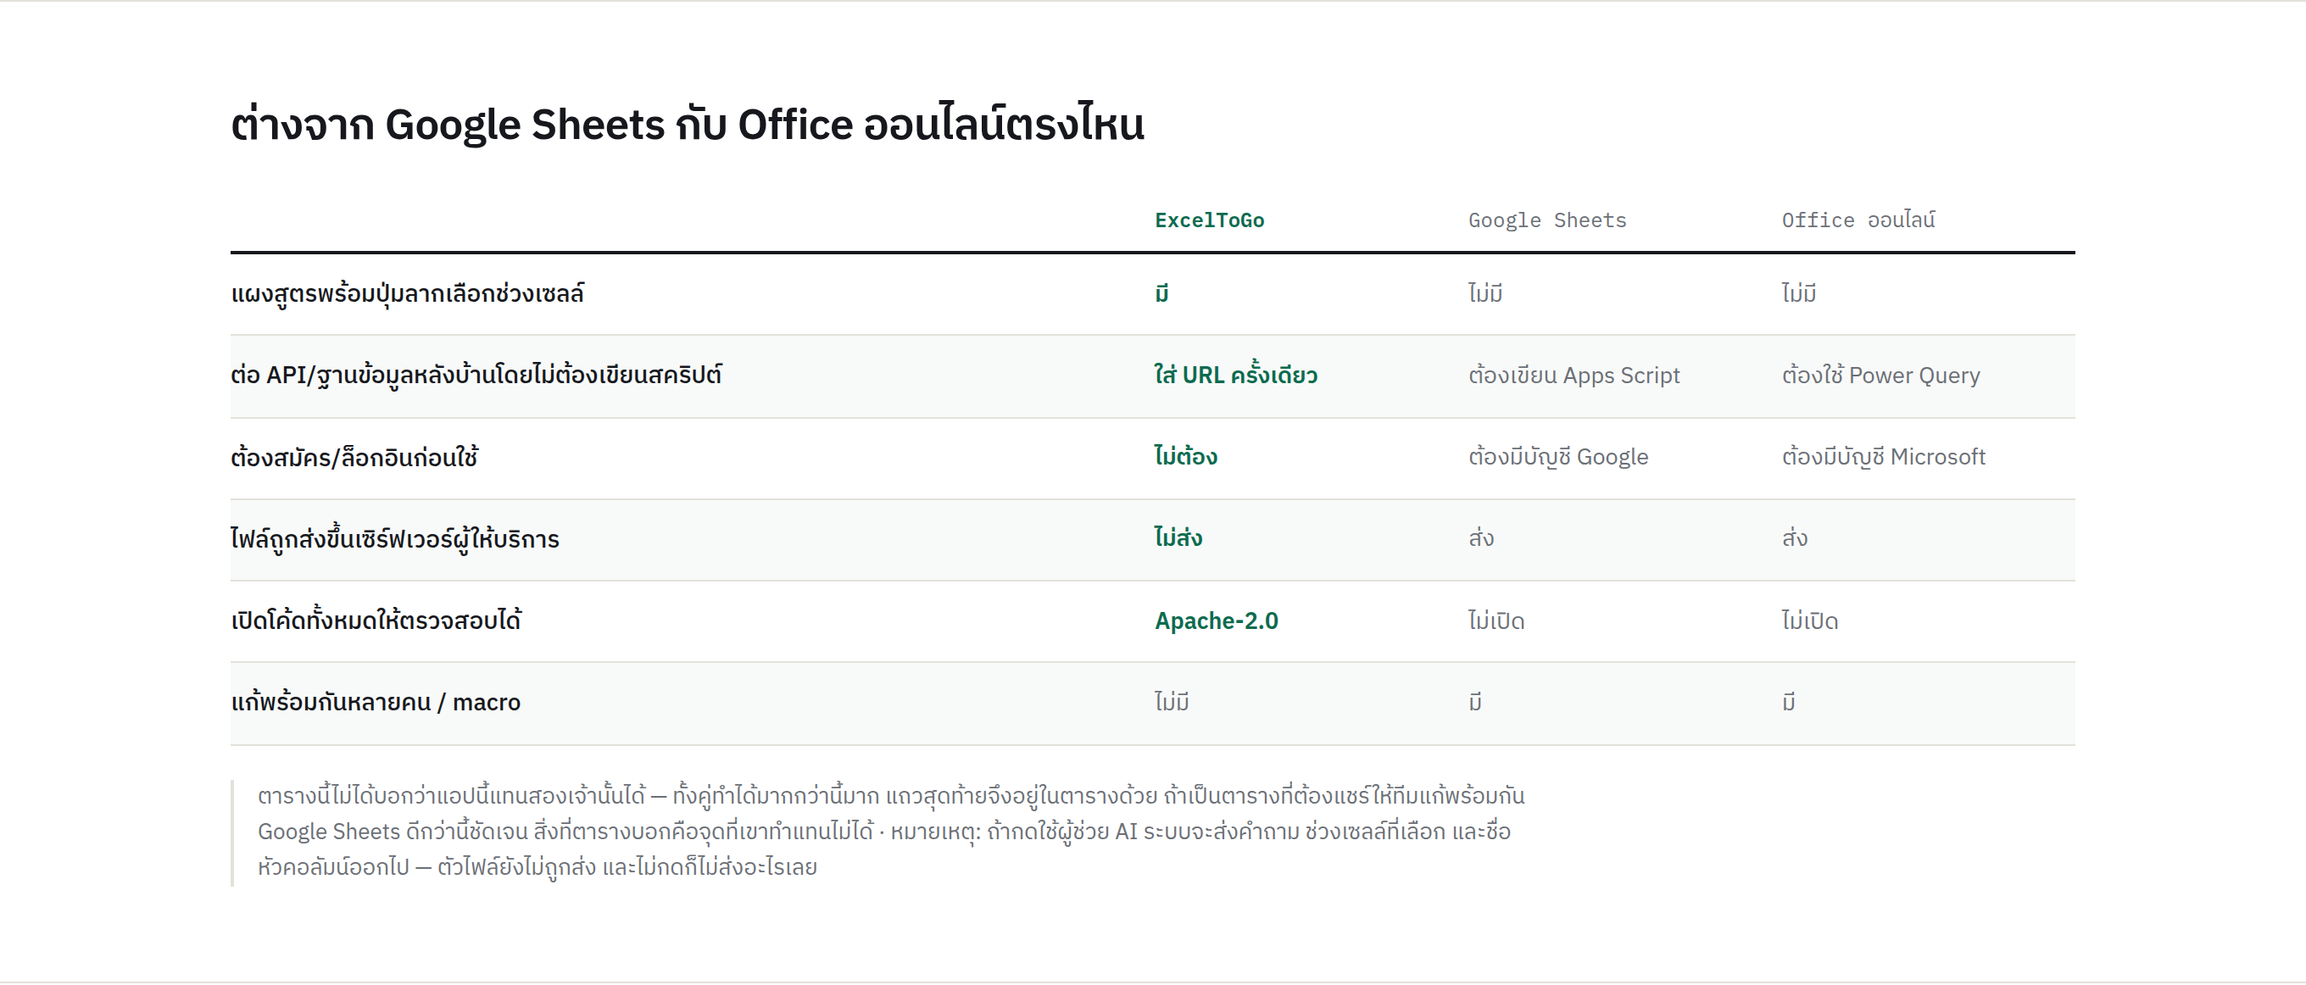
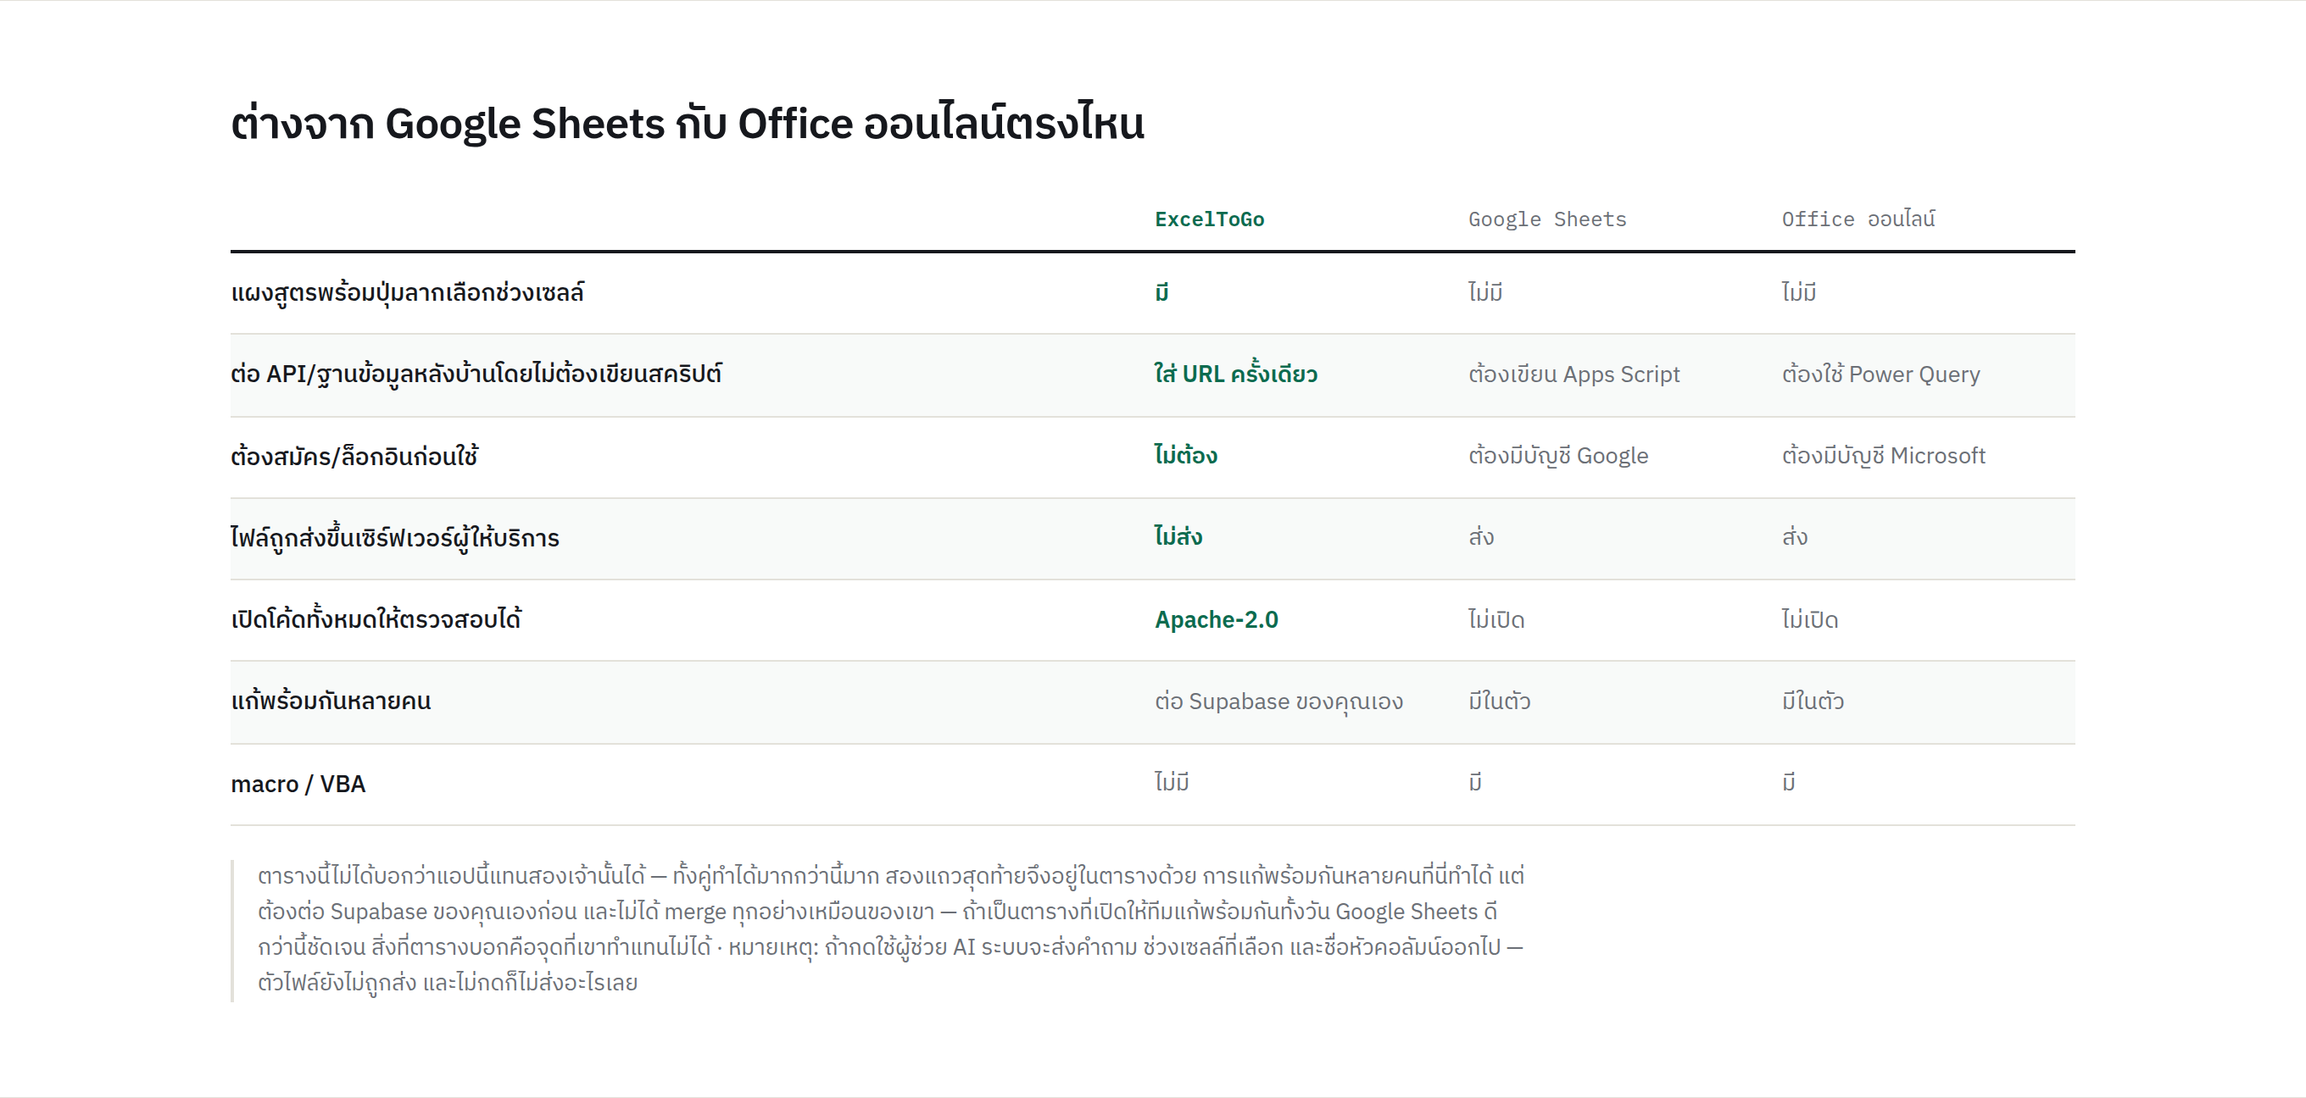
landing: say that editing together shipped, and where it stops
The front page still claimed multi-person editing was absent and not planned,
and the comparison table still scored it "No" against Google Sheets. Both were
true last week and are not now.

- A sixth feature card, and the first one on the page with no screenshot: the
  live panel only exists once a real Supabase project is attached, and this page
  promises every image on it came from the running app. A mocked-up picture would
  be a claim rather than evidence, so the card says so and lays out as one column
  instead of leaving half a row empty.
- The comparison table splits co-editing from macros, because they no longer have
  the same answer: "on your own Supabase" against "built in", still not a win.
  The note under it says plainly that for a sheet a team edits all day, Google
  Sheets is the better tool.
- The limits section keeps its promise of stopping honestly: co-editing is here,
  it is not a CRDT, it does not merge row inserts, and macros are still absent.
- Both READMEs' opening pitch mentions it, and the comparison screenshot was
  retaken from a production build rather than left a row short.

Gates: lint, README, 1058 tests, build, 30 a11y checks, 8 e2e flows.

Claude-Session: https://claude.ai/code/session_01FHKiqBv3L47spmi6JGMLcC

diff --git a/src/i18n/th.ts b/src/i18n/th.ts
@@ -144,10 +144,11 @@ export const th: Messages = {
         { label: "ต้องสมัคร/ล็อกอินก่อนใช้", values: ["ไม่ต้อง", "ต้องมีบัญชี Google", "ต้องมีบัญชี Microsoft"], good: true },
         { label: "ไฟล์ถูกส่งขึ้นเซิร์ฟเวอร์ผู้ให้บริการ", values: ["ไม่ส่ง", "ส่ง", "ส่ง"], good: true },
         { label: "เปิดโค้ดทั้งหมดให้ตรวจสอบได้", values: ["Apache-2.0", "ไม่เปิด", "ไม่เปิด"], good: true },
-        { label: "แก้พร้อมกันหลายคน / macro", values: ["ไม่มี", "มี", "มี"], good: false },
+        { label: "แก้พร้อมกันหลายคน", values: ["ต่อ Supabase ของคุณเอง", "มีในตัว", "มีในตัว"], good: false },
+        { label: "macro / VBA", values: ["ไม่มี", "มี", "มี"], good: false },
       ],
       disclaimer:
-        "ตารางนี้ไม่ได้บอกว่าแอปนี้แทนสองเจ้านั้นได้ — ทั้งคู่ทำได้มากกว่านี้มาก แถวสุดท้ายจึงอยู่ในตารางด้วย ถ้าเป็นตารางที่ต้องแชร์ให้ทีมแก้พร้อมกัน Google Sheets ดีกว่านี้ชัดเจน สิ่งที่ตารางบอกคือจุดที่เขาทำแทนไม่ได้ · หมายเหตุ: ถ้ากดใช้ผู้ช่วย AI ระบบจะส่งคำถาม ช่วงเซลล์ที่เลือก และชื่อหัวคอลัมน์ออกไป — ตัวไฟล์ยังไม่ถูกส่ง และไม่กดก็ไม่ส่งอะไรเลย",
+        "ตารางนี้ไม่ได้บอกว่าแอปนี้แทนสองเจ้านั้นได้ — ทั้งคู่ทำได้มากกว่านี้มาก สองแถวสุดท้ายจึงอยู่ในตารางด้วย การแก้พร้อมกันหลายคนที่นี่ทำได้ แต่ต้องต่อ Supabase ของคุณเองก่อน และไม่ได้ merge ทุกอย่างเหมือนของเขา — ถ้าเป็นตารางที่เปิดให้ทีมแก้พร้อมกันทั้งวัน Google Sheets ดีกว่านี้ชัดเจน สิ่งที่ตารางบอกคือจุดที่เขาทำแทนไม่ได้ · หมายเหตุ: ถ้ากดใช้ผู้ช่วย AI ระบบจะส่งคำถาม ช่วงเซลล์ที่เลือก และชื่อหัวคอลัมน์ออกไป — ตัวไฟล์ยังไม่ถูกส่ง และไม่กดก็ไม่ส่งอะไรเลย",
     },
     problemTitle: "เรื่องที่น่าจะเคยเจอ",
     problemLead:
@@ -212,6 +213,16 @@ export const th: Messages = {
         alt: "กราฟที่วาดจากช่วงข้อมูลในตาราง",
         points: ["กราฟผูกกับเซลล์ แก้ตัวเลขแล้วขยับตาม", "PDF อ่านภาษาไทยออก ไม่ใช่อักษรมั่ว", "จัดรูปแบบตามเงื่อนไขไป-กลับกับ Excel ได้"],
       },
+      {
+        title: "แก้พร้อมกันหลายคน บน backend ของคุณเอง",
+        body: "บันทึกงานขึ้น Supabase ของคุณแล้วกดเข้าห้อง ทุกคนที่เปิดไฟล์เดียวกันจะเห็นกันพิมพ์สด ๆ พร้อมจุดสีบอกว่าใครอยู่ช่องไหน — ไม่มีเซิร์ฟเวอร์กลางของแอปนี้อยู่ตรงกลาง เพราะการมีเซิร์ฟเวอร์กลางจะกลับด้านสิ่งที่ทั้งแอปยืนอยู่บนมัน · ไม่มีภาพในหัวข้อนี้ เพราะพาเนลจะโผล่ก็ต่อเมื่อต่อ Supabase จริงแล้ว และหน้านี้สัญญาไว้ว่าทุกภาพถ่ายจากแอปจริง",
+        points: [
+          "ช่องที่กำลังพิมพ์อยู่ไม่ถูกทับกลางคัน",
+          "undo ของเราไม่ลบงานของเขา",
+          "ไม่ใช่ CRDT — พิมพ์ช่องเดียวกันพร้อมกันเหลือค่าเดียว และฝั่งที่แพ้ถูกบอก",
+          "แทรก/ลบแถวไม่ merge — บันทึกแล้วให้อีกฝั่งโหลดใหม่",
+        ],
+      },
     ],
     statsTitle: "เบื้องหลัง",
     // The test count sits directly above this on the page, so the "N passed, yet 43% unusable"
@@ -237,11 +248,11 @@ export const th: Messages = {
     limits: [
       {
         title: "เครื่องมือในเบราว์เซอร์ ไม่ใช่บริการที่โฮสต์ให้",
-        body: "ไม่มีบัญชีผู้ใช้ ไม่มีเซิร์ฟเวอร์เก็บงานของคุณ — ข้อมูลอยู่ในเครื่องคุณเท่านั้น ซึ่งเป็นเหตุผลเดียวกับที่เปิดใช้ได้ทันทีโดยไม่ต้องสมัคร ถ้าต้องการบันทึกข้ามเครื่อง ต่อ Supabase ของคุณเองได้",
+        body: "ไม่มีบัญชีผู้ใช้ ไม่มีเซิร์ฟเวอร์เก็บงานของคุณ — ข้อมูลอยู่ในเครื่องคุณเท่านั้น ซึ่งเป็นเหตุผลเดียวกับที่เปิดใช้ได้ทันทีโดยไม่ต้องสมัคร ถ้าต้องการบันทึกข้ามเครื่องหรือแก้พร้อมกันหลายคน ต่อ Supabase ของคุณเองได้ — ของคุณ ไม่ใช่ของใคร",
       },
       {
         title: "ทำงานประจำวันให้จบ ไม่ได้ทำทุกอย่างที่ Excel ทำ",
-        body: "กรอก คำนวณ จัดรูปแบบ สรุป และส่งออก — ครบ ส่วน macro/VBA และการแก้พร้อมกันหลายคนยังไม่มี และไม่ได้อยู่ในแผนของเวอร์ชันนี้",
+        body: "กรอก คำนวณ จัดรูปแบบ สรุป และส่งออก — ครบ การแก้พร้อมกันหลายคนมีแล้วถ้าต่อ Supabase ของคุณเอง แต่ไม่ใช่ CRDT และไม่ merge การแทรกแถว ส่วน macro/VBA ยังไม่มี และไม่ได้อยู่ในแผนของเวอร์ชันนี้",
       },
     ],
     limitsMoreText: "ข้อจำกัดที่เหลือเขียนไว้ครบใน README — รวมถึงเรื่องที่หน้าโปรโมตทั่วไปไม่เขียน",

diff --git a/src/i18n/en.ts b/src/i18n/en.ts
@@ -144,10 +144,11 @@ export const en: Messages = {
         { label: "Account required before you can start", values: ["No", "Google account", "Microsoft account"], good: true },
         { label: "File uploaded to the provider's servers", values: ["No", "Yes", "Yes"], good: true },
         { label: "Source open to inspection", values: ["Apache-2.0", "Closed", "Closed"], good: true },
-        { label: "Real-time co-editing / macros", values: ["No", "Yes", "Yes"], good: false },
+        { label: "Real-time co-editing", values: ["On your own Supabase", "Built in", "Built in"], good: false },
+        { label: "Macros / VBA", values: ["No", "Yes", "Yes"], good: false },
       ],
       disclaimer:
-        "This table does not claim the app replaces either of them — both do far more, which is why the last row is in the table too. For a sheet a team edits together, Google Sheets is plainly the better tool. What the table shows is what neither of them will do for you. Note: pressing the AI assistant sends your question, the selected range and the column headers — the file itself still does not leave, and not pressing it sends nothing at all.",
+        "This table does not claim the app replaces either of them — both do far more, which is why the last two rows are in the table too. Co-editing does work here, but only once you have pointed it at your own Supabase, and it does not merge everything theirs does — for a sheet a team edits together all day, Google Sheets is plainly the better tool. What the table shows is what neither of them will do for you. Note: pressing the AI assistant sends your question, the selected range and the column headers — the file itself still does not leave, and not pressing it sends nothing at all.",
     },
     problemTitle: "If any of this sounds familiar",
     problemLead:
@@ -212,6 +213,16 @@ export const en: Messages = {
         alt: "A chart drawn from a range on the sheet",
         points: ["Charts are bound to cells and follow edits", "Thai in the PDF reads as Thai, not as noise", "Conditional formatting round-trips through Excel"],
       },
+      {
+        title: "Editing together, on your own backend",
+        body: "Save a workbook to your Supabase project and join the session: everyone who opens that workbook sees each other type, with a coloured dot for where each person's cursor is. No server of this app's sits in the middle — one would reverse the property the whole thing stands on. There is no picture in this section, because the panel only exists once a real Supabase project is attached, and this page promises every image is taken from the running app.",
+        points: [
+          "The cell you have open is never overwritten mid-word",
+          "Your undo does not erase their work",
+          "Not a CRDT — one cell typed into twice at once leaves one value, and the loser is told",
+          "Row inserts are not merged — it saves, then asks the others to reload",
+        ],
+      },
     ],
     statsTitle: "Under the hood",
     // The test count sits directly above this, so the "N passed, yet 43% unusable" pairing is left
@@ -237,11 +248,11 @@ export const en: Messages = {
     limits: [
       {
         title: "A tool in your browser, not a hosted service",
-        body: "No accounts, no server holding your work — your data stays on your machine, which is the same reason it opens and runs without a sign-up. Want it saved across devices? Point it at your own Supabase.",
+        body: "No accounts, no server holding your work — your data stays on your machine, which is the same reason it opens and runs without a sign-up. Want it saved across devices, or edited by several people at once? Point it at your own Supabase — yours, not anyone else's.",
       },
       {
         title: "The everyday work, not everything Excel does",
-        body: "Entering, calculating, formatting, summarising and exporting are all here. Macros/VBA and simultaneous multi-person editing are not, and aren't planned for this version.",
+        body: "Entering, calculating, formatting, summarising and exporting are all here. Simultaneous editing is too, once you point it at your own Supabase — though it is not a CRDT and does not merge row inserts. Macros/VBA are not here, and aren't planned for this version.",
       },
     ],
     limitsMoreText: "The rest of the limits are written out in the README — including the ones a promo page normally leaves out.",

diff --git a/src/app/page.tsx b/src/app/page.tsx
@@ -267,13 +267,21 @@ export default function Landing() {
           <div className="mt-2">
             {t.landing.features.map((f, i) => {
               const media = FEATURE_MEDIA[i];
+              // One feature has no exhibit — the live session only exists once someone attaches a
+              // Supabase project, and this page says every image on it was taken from the running
+              // app. So it lays out as one column rather than leaving half the row empty, capped at
+              // the measure the two-column rows already read at.
+              const exhibited = media && f.alt;
               return (
                 <article
                   key={f.title}
-                  className="grid items-start gap-7 border-b border-rule py-10 md:grid-cols-[minmax(0,1fr)_minmax(0,1.1fr)] md:gap-12 lg:py-12"
+                  className={
+                    "grid items-start gap-7 border-b border-rule py-10 md:gap-12 lg:py-12 " +
+                    (exhibited ? "md:grid-cols-[minmax(0,1fr)_minmax(0,1.1fr)]" : "")
+                  }
                 >
                   {/* Alternate which side the exhibit sits on, but only once there are two columns. */}
-                  <div className={`min-w-0 ${i % 2 === 1 ? "md:order-2" : ""}`}>
+                  <div className={`min-w-0 ${exhibited ? (i % 2 === 1 ? "md:order-2" : "") : "md:max-w-[38rem]"}`}>
                     <span className="tabular-nums font-mono text-[11px] text-ash">{num(i)}</span>
                     <h3 className="mt-2.5 text-[1.2rem] font-semibold leading-[1.4] tracking-[-0.01em] text-ink sm:text-[1.35rem]">
                       {f.title}
@@ -289,7 +297,7 @@ export default function Landing() {
                     </ul>
                   </div>
 
-                  {media && (
+                  {media && f.alt && (
                     <figure className="min-w-0 border border-rule bg-white">
                       <Image
                         src={media.src}

diff --git a/src/i18n/types.ts b/src/i18n/types.ts
@@ -190,7 +190,10 @@ export interface Messages {
     featuresTitle: string;
     featuresSubtitle: string;
     /** Paired by index with the screenshots listed in the landing page component. */
-    features: { title: string; body: string; alt: string; points: string[] }[];
+    /** `alt` travels with a screenshot: a feature with no exhibit has neither, which is how the
+     *  one feature that cannot be photographed without a Supabase project stays on the page
+     *  without a mocked-up picture standing in for it. */
+    features: { title: string; body: string; alt?: string; points: string[] }[];
     statsTitle: string;
     stats: { value: string; label: string }[];
     /** The one thing the numbers above cannot say: what the test suite did not catch. */

diff --git a/README.md b/README.md
@@ -49,7 +49,7 @@ merged cells — and a protected file is read as a fill-in template that knows w
 also be bound to a live REST/CSV source that follows paginated APIs, backs off when rate-limited, and says so
 when data came back incomplete. Conditional formatting re-colours cells from their current values — comparisons,
 top/bottom ranks, colour scales and data bars — and round-trips through Excel's own rule format. Bilingual UI
-(Thai/English), 1058 automated tests. บันทึกบนคลาวด์มีให้เลือกใช้ได้ โดยต่อ backend ของคุณเอง
+(Thai/English), 1058 automated tests. บันทึกบนคลาวด์และการแก้พร้อมกันหลายคนมีให้เลือกใช้ได้ โดยต่อ backend ของคุณเอง
 
 ---
 

diff --git a/README.en.md b/README.en.md
@@ -52,7 +52,8 @@ cell/range references, relative & structural reference adjustment, circular-refe
 workbooks, conditional formatting that re-colours cells from their current values, pivot summaries over a
 selected range, and full-fidelity Excel/PDF export — where a chart exported to `.xlsx` is a real, editable chart
 bound to its cells, because the OOXML chart parts are written by hand (ExcelJS writes none). Plus optional
-bring-your-own-backend cloud save. Bilingual UI (Thai/English), 1058 automated tests.
+bring-your-own-backend cloud save and live co-editing over it — presence, last-writer-wins with the loser told, and
+an undo that does not erase the other person's work. Bilingual UI (Thai/English), 1058 automated tests.
 
 ---
 
